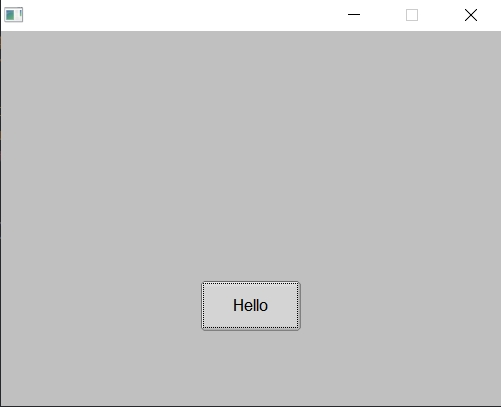
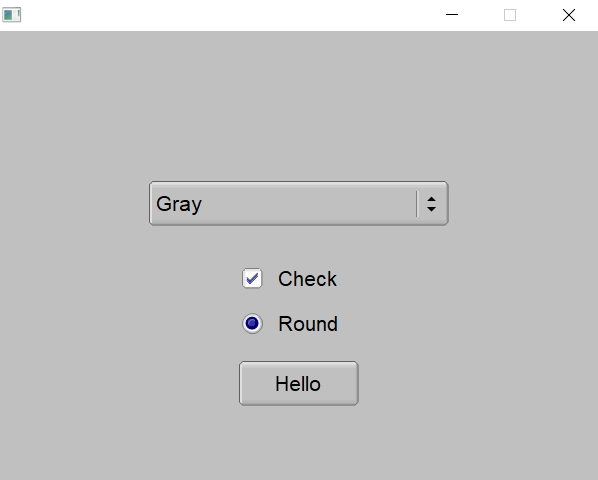
don't reload app scheme on color theme change

diff --git a/examples/predef_color.rs b/examples/predef_color.rs
@@ -3,12 +3,34 @@ use fltk_theme::{color_themes, ColorTheme};
 
 fn main() {
     let a = app::App::default().with_scheme(app::Scheme::Gtk);
-    let theme = ColorTheme::from_colormap(color_themes::DARK_THEME);
-    theme.apply();
+    app::set_visible_focus(false);
+
+    let color_theme = ColorTheme::from_colormap(color_themes::BLACK_THEME);
+    color_theme.apply();
     let mut win = window::Window::default().with_size(400, 300);
-    let mut btn = button::Button::new(160, 200, 80, 40, "Hello");
-    btn.set_color(btn.color().lighter());
+    let mut choice = menu::Choice::new(100, 100, 200, 30, None);
+    choice.add_choice("Black|Dark|Gray|Shake|Tan");
+    choice.set_value(0);
+    let mut check = button::CheckButton::new(160, 150, 80, 30, "  Check");
+    check.set_value(true);
+    check.set_frame(enums::FrameType::FlatBox);
+    let mut round = button::RoundButton::new(160, 180, 80, 30, "  Round");
+    round.set_value(true);
+    round.set_frame(enums::FrameType::FlatBox);
+    button::Button::new(160, 220, 80, 30, "Hello");
     win.end();
     win.show();
+    choice.set_callback(|c| {
+        let theme = match c.value() {
+            0 => ColorTheme::from_colormap(color_themes::BLACK_THEME),
+            1 => ColorTheme::from_colormap(color_themes::DARK_THEME),
+            2 => ColorTheme::from_colormap(color_themes::GRAY_THEME),
+            3 => ColorTheme::from_colormap(color_themes::SHAKE_THEME),
+            4 => ColorTheme::from_colormap(color_themes::TAN_THEME),
+            _ => ColorTheme::from_colormap(color_themes::BLACK_THEME),
+        };
+        theme.apply();
+    });
+
     a.run().unwrap();
 }

diff --git a/src/lib.rs b/src/lib.rs
@@ -109,7 +109,7 @@ impl ColorTheme {
         for elem in &self.0 {
             app::set_color(Color::by_index(elem.index), elem.r, elem.g, elem.b);
         }
-        app::reload_scheme().ok();
+        app::redraw();
     }
 }
 
